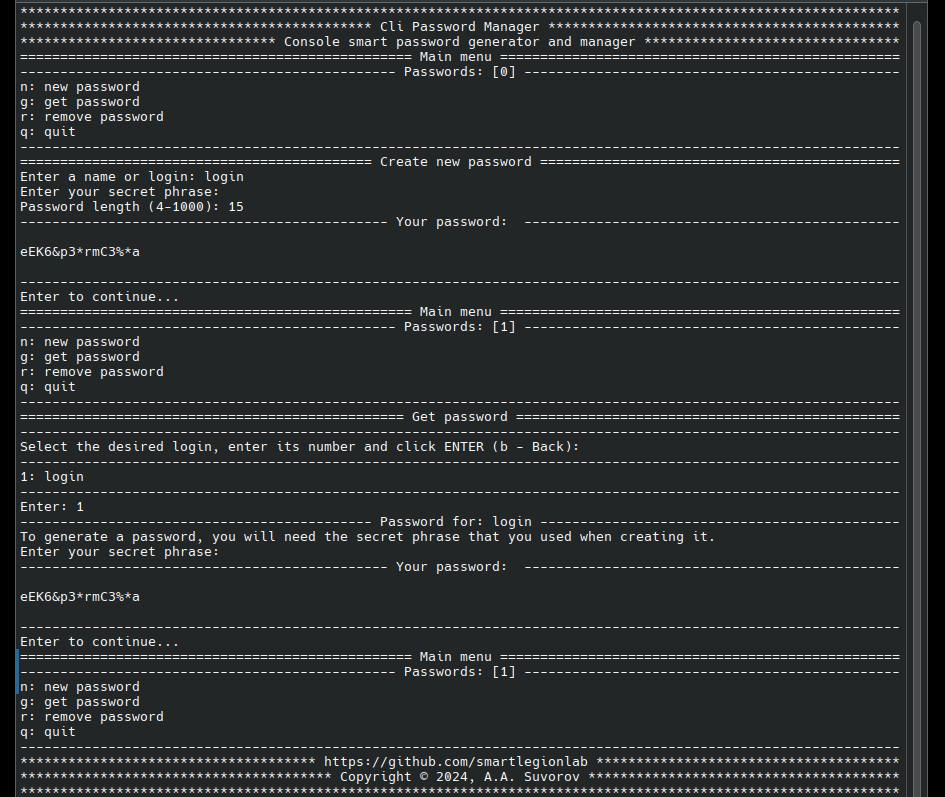
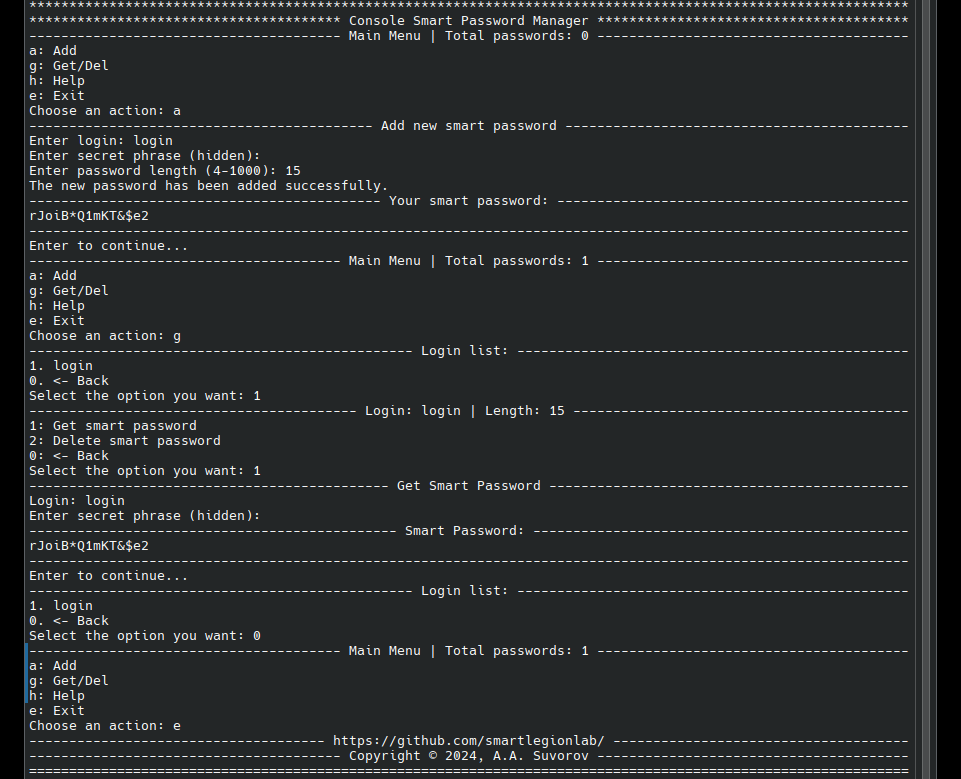
Cli Smart Password Manager v0.6.0 stable version.

diff --git a/README.md b/README.md
@@ -1,6 +1,10 @@
-# clipassman
+# clipassman <sup>v0.6.0</sup>
 
-***
+___clipassman___ - Cross-platform console smart password generator and manager.
+
+Working with passwords has never been so secure. 
+No encryption, smart passwords are not stored anywhere, they are generated on the fly.
+They do not need to be memorized or written down. You only need to remember the secret phrase.
 
 ***
 
@@ -16,8 +20,6 @@
 
 
 ## Short description:
-
-___clipassman___ - Cross-platform console smart password generator and manager.
 
 - Passwords are not stored anywhere, neither in open nor in encrypted form, they are generated on the fly.
 - Complex passwords up to 1000 characters.
@@ -48,7 +50,9 @@ Author and developer: ___A.A. Suvorov___
 
 ## What is news:
 
-__clipassman v0.5.1__
+__clipassman v0.6.0__
+
+This is a completely new, rewritten version. More simple and convenient. And just as safe.
 
 ***
 
@@ -76,7 +80,7 @@ but the secret phrase, very easy!).
  
 You will create smart passwords using your username (or any word that will be stored in clear text),
 the length of the password (no matter how long the password from will always be the same, 
-specifying the length you just count the required number of characters from the available ones (4-100)), 
+specifying the length you just count the required number of characters from the available ones (4-1000)), 
 as well as the secret phrase.
  
 A secret phrase is like your password to access a password. It will be stored in your head,
@@ -98,6 +102,24 @@ You need to keep your secret phrase secret.
 If an attacker finds out your username and secret phrase,
 it will easily generate your password. But still, it's almost impossible. 
 After all, read your secret phrase he can't get out of your head.
+
+You don't have to use real logins. Login in our case is simply the name of your case, 
+under which the case will be stored in the manager, 
+for further password generation on the fly. 
+It will also be used in the process of generating a smart password, 
+so it is important, but can be stored in clear text.
+
+A file will be created on your system, in your home folder. 
+It will store open data: 1. Login. 2. Password length. 3. 
+Public key for each case. Having stolen this data, the attacker will in any case 
+not be able to obtain your smart passwords, 
+since they can only be obtained by knowing the secret phrase, and it is stored in your head.
+
+---
+
+## Requirements:
+
+smartpasslib: [GitHub](https://github.com/smartlegionlab/smartpasslib/), [PyPi](https://pypi.org/project/smartpasslib/)
 
 ***
 
